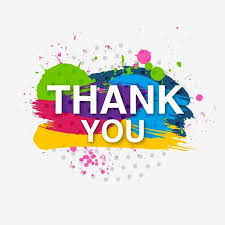
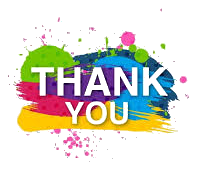
Move Sample 2 Thank you image below the seal, remove the grey background, and enlarge it.

diff --git a/DBSolar_19_09_2023/quotation/templates/quotation/edit_quotation_template.html b/DBSolar_19_09_2023/quotation/templates/quotation/edit_quotation_template.html
@@ -286,7 +286,7 @@
   </div>
   <div class="page-sheet">
     <div class="page-label">Page 6 / 6 — Thank you</div>
-    <p class="help-text mb-2">Thank you image, then Bank Details, Company Details, Contact Person and company seal (same as Sample 1 industrial).</p>
+    <p class="help-text mb-2">Bank Details, Company Details, Contact Person and company seal first, then the Thank you image below (no grey background).</p>
     <div class="pdf-page-frame">
       {% if master.header_image %}
         <img class="hf-img" src="{{ master.header_image.url }}" alt="Header">
@@ -294,10 +294,10 @@
         <img class="hf-img" src="{% static 'images/quotation_bg1.jpg' %}" alt="Header">
       {% endif %}
       <div class="page-body" style="text-align:center;">
-        <img class="page-thumb" src="{% static 'quotation/proposal/thankyou.png' %}" alt="Thank you" style="max-width:220px;">
-        <div class="help-text mt-2 mb-0" style="text-align:left;">
-          Bank Details and Company Details (GST / PAN), Contact Person with number, and company seal appear below the image on the PDF.
+        <div class="help-text mb-2" style="text-align:left;">
+          Bank Details and Company Details (GST / PAN), Contact Person with number, and company seal print first. The Thank you image is below them.
         </div>
+        <img class="page-thumb" src="{% static 'quotation/proposal/thankyou.png' %}" alt="Thank you" style="max-width:360px; background:#fff;">
       </div>
       {% if master.footer_image %}
         <img class="hf-img" src="{{ master.footer_image.url }}" alt="Footer">

diff --git a/DBSolar_19_09_2023/quotation/templates/quotation/standard_industrial_quotation.html b/DBSolar_19_09_2023/quotation/templates/quotation/standard_industrial_quotation.html
@@ -547,17 +547,9 @@
 </div>
 </div>
 
-{# PAGE 6 — Thank you image + bank / company / contact / seal (same as Sample 1 industrial) #}
+{# PAGE 6 — Bank / company / contact / seal, then Thank you image #}
 <div class="page-break"></div>
 <div class="si-large" style="font-size:15px; line-height:1.5;">
-<table class="no-border" align="center" width="525">
-  <tr>
-    <td style="border:none; text-align:center; padding:0;">
-      <img src="{% static 'quotation/proposal/thankyou.png' %}" style="width:220pt; height:220pt;">
-    </td>
-  </tr>
-</table>
-
 <table class="no-border" style="width:525pt; margin-top:8px;">
   <tr>
     <td style="width:290pt; vertical-align:top; padding-right:12px; border:none;">
@@ -621,6 +613,14 @@
              style="width:85pt; height:65pt; display:block; margin:0; padding:0;">
         <b>M/S {{ quotation_master.company_name|default:"HERAMB INDUSTRIES"|upper }}</b>
       </div>
+    </td>
+  </tr>
+</table>
+
+<table class="no-border" align="center" width="525" style="margin-top:12px;">
+  <tr>
+    <td style="border:none; text-align:center; padding:0;">
+      <img src="{% static 'quotation/proposal/thankyou.png' %}" style="width:360pt; height:310pt;">
     </td>
   </tr>
 </table>
